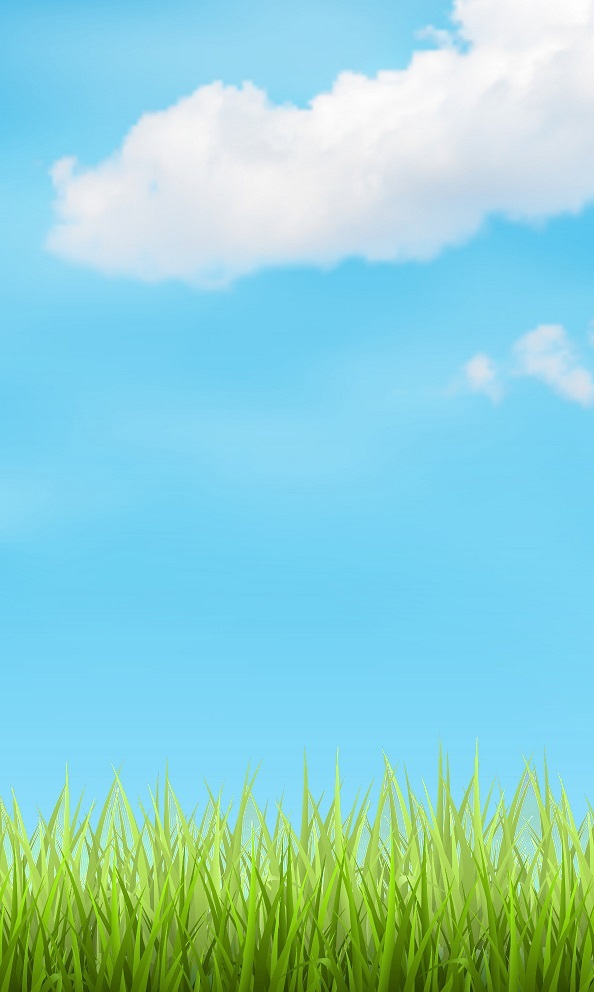
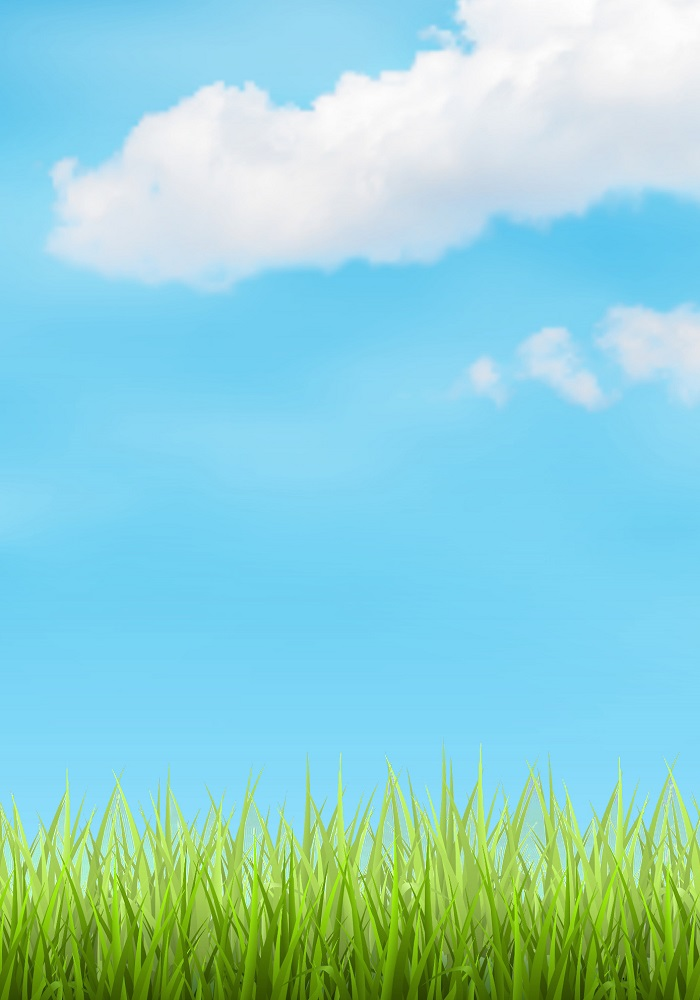
increased game width, removed top bar, fixed UI on firefox/edge

diff --git a/src/components/Game.jsx b/src/components/Game.jsx
@@ -1,3 +1,5 @@
+//deploy: npm run deploy
+
 import React from 'react';
 import Button from './Button';
 import Apple from './Apple';
@@ -5,13 +7,7 @@ import GameOverOverlay from './GameOverOverlay'
 import GameStartOverlay from './GameStartOverlay'
 import backgroundImg from '../assets/sky-background.jpg'
 import timerImg from '../assets/timer.png'
-
-const BUTTON_WIDTH = 120;
-const CANVAS_HEIGHT = 1000;
-const CANVAS_WIDTH = 600;
-const GAME_LENGTH = 15;
-const NUMBER_OF_COLUMNS = 5;
-const NUMBER_OF_ROWS = 8;
+import {CANVAS_HEIGHT, CANVAS_WIDTH, NUMBER_OF_COLUMNS, NUMBER_OF_ROWS, BUTTON_WIDTH, GAME_LENGTH} from '../utils/constants.js'
 
 class Game extends React.Component {
   
@@ -60,7 +56,7 @@ class Game extends React.Component {
   //returns initial array of apples
   setupApples(){
     var appleLocations = [];
-    for(var i = 0; i < 8; i++){
+    for(var i = 0; i < NUMBER_OF_ROWS; i++){
       var randomNumber = Math.floor(Math.random()*5); // random number between 0 and 4
       appleLocations.unshift(randomNumber);
     }
@@ -145,22 +141,18 @@ class Game extends React.Component {
         <div className="game" id="game">
           <meta name="viewport" content="width=device-width,user-scalable=no"/>
           <div className="game-contents">
-            <div className="topbar">
-              <p id="scoreCounter">{"Score: "+this.state.score}</p>
-              <p id="timeCounter">{"Time: "+this.state.secondsRemaining +" seconds"}</p>
-            </div>
             <svg id="apple-clicker-canvas" viewBox={"0 0 "+CANVAS_WIDTH+" "+CANVAS_HEIGHT}>
               
               <image height="100%" xlinkHref={backgroundImg} width={CANVAS_WIDTH}/>
               {this.renderButtons()}
               {this.renderApples()}
-              <text fontSize="32" x="30" y="35" fill="orange">{this.state.score}</text>
-              <image xlinkHref={timerImg} height="3.5%" x="510" y="5"/>
-              <text fontSize="32" x="550" y="35">{this.state.secondsRemaining}</text>
+              <text fontSize="32" fontWeight="bold" x="30" y="35">{this.state.score}</text>
+              <image xlinkHref={timerImg} height="3.5%" width="3.5%" x="560" y="5"/>
+              <text fontSize="32" fontWeight="bold" x="600" y="35">{this.state.secondsRemaining}</text>
               
               { 
                 this.state.gameEnded &&
-                <GameOverOverlay onClick={this.restartGame}/>
+                <GameOverOverlay onClick={this.restartGame} score={this.state.score}/>
               }
               
               {

diff --git a/src/components/GameOverOverlay.jsx b/src/components/GameOverOverlay.jsx
@@ -5,10 +5,11 @@ class GameOverOverlay extends React.Component {
   render(){
     return (
       <>
-        <rect height="100%" stroke="black" strokeWidth="4" fill="black" id="resetGameOverlay" opacity="0.85"/>
-        <rect height="15%" fill="black" y="210" />
-        <text x="225" y="300" fill="darkred" id="youDiedText">YOU DIED</text>
-        <text fontSize="32" x="150" y="500" onClick={this.props.onClick} fill="orange">Press here to restart.</text>
+        <rect height="100%" width="100%" stroke="black" strokeWidth="4" fill="black" id="resetGameOverlay" opacity="0.85"/>
+        <rect height="15%" width="100%" fill="black" y="210" />
+        <text x="275" y="300" fill="darkred" id="youDiedText">YOU DIED</text>
+        <text fontSize="32" x="240" y="425" fill="orange">{"Your score is "+this.props.score}</text>
+        <text fontSize="32" x="200" y="500" onClick={this.props.onClick} fill="orange">Press here to restart.</text>
       </>
     )
   }

diff --git a/src/components/Button.jsx b/src/components/Button.jsx
@@ -1,4 +1,5 @@
 import React from 'react';
+import {BUTTON_WIDTH} from '../utils/constants.js'
 
 class Button extends React.Component {
   
@@ -12,7 +13,7 @@ class Button extends React.Component {
   render(){
     const {xPos, yPos} = this.props;
     return(
-        <rect width="120" height="120" stroke="black" strokeWidth="4" fill="burlywood" y={yPos} x={xPos} onTouchStart={this.onClick} onTouchEnd={e => e.preventDefault()} onClick={this.onClick}/>
+        <rect width={BUTTON_WIDTH} height={BUTTON_WIDTH} stroke="black" strokeWidth="4" fill="burlywood" y={yPos} x={xPos} onTouchStart={this.onClick} onTouchEnd={e => e.preventDefault()} onClick={this.onClick}/>
     );
   }
 }

diff --git a/src/components/GameStartOverlay.jsx b/src/components/GameStartOverlay.jsx
@@ -8,8 +8,8 @@ class GameStartOverlay extends React.Component {
   render(){
     return (
       <>
-        <image height="100%" xlinkHref={backgroundImg} id="startGameOverlay" onClick={this.props.onClick}/>
-        <text fontSize="32" x="150" y="500" id="gameStartText" onClick={this.props.onClick}>Press anywhere to begin!</text>
+        <image height="100%" width="100%" xlinkHref={backgroundImg} id="startGameOverlay" onClick={this.props.onClick}/>
+        <text fontSize="32" x="175" y="500" id="gameStartText" onClick={this.props.onClick}>Press anywhere to begin!</text>
       </>
     )
   }

diff --git a/src/components/Apple.jsx b/src/components/Apple.jsx
@@ -1,5 +1,6 @@
 import React from 'react';
 import appleImg from "../assets/apple.png"
+import {BUTTON_WIDTH} from '../utils/constants.js'
 
 class Apple extends React.Component {
   
@@ -9,7 +10,7 @@ class Apple extends React.Component {
     const {xPos, yPos} = this.props;
     
     return(
-      <image x={xPos} y={yPos} height="120" width="120" className="Apple" xlinkHref={appleImg}/>
+      <image x={xPos} y={yPos} height={BUTTON_WIDTH} width={BUTTON_WIDTH} className="Apple" xlinkHref={appleImg}/>
     )
   }
   

diff --git a/src/utils/constants.js b/src/utils/constants.js
@@ -1,0 +1,6 @@
+export const CANVAS_HEIGHT = 1000;
+export const CANVAS_WIDTH = 700;
+export const NUMBER_OF_COLUMNS = 5;
+export const NUMBER_OF_ROWS = 7;
+export const BUTTON_WIDTH = CANVAS_WIDTH / NUMBER_OF_COLUMNS;
+export const GAME_LENGTH = 15;
